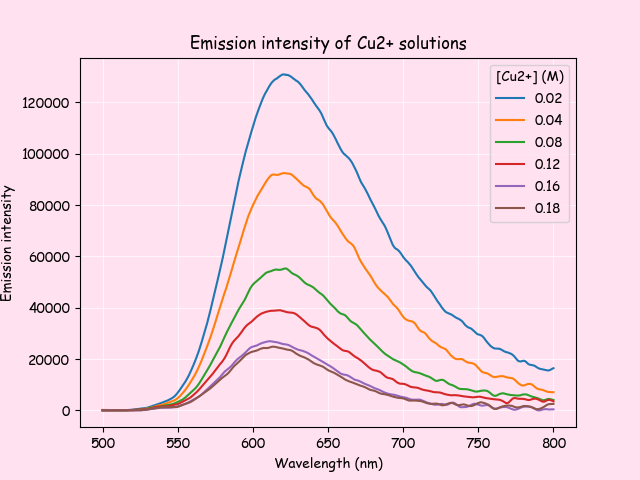
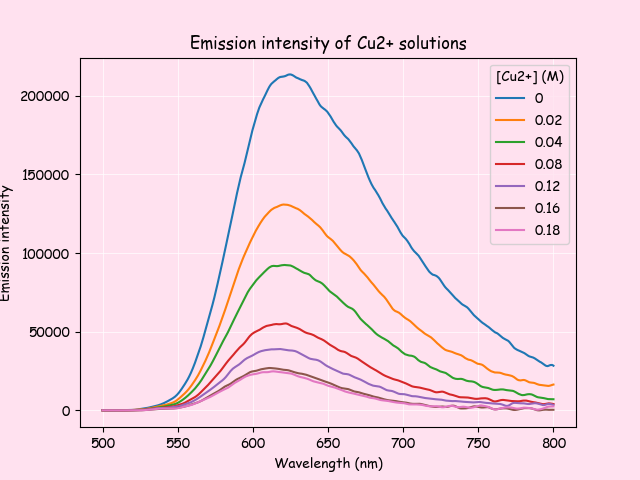
fuck

diff --git a/part1.py b/part1.py
@@ -15,8 +15,8 @@ def stern_volmer_y(x, noq):
 
     #find wl for max intensity
     wl_at_peak, peak = wl_4_peak(noq)
+    i0 = peak
     
-    #make array for i0/i for each sample so len(i0/i array) = len(x) ie num samples
     result = []
    
     for sample in x:
@@ -25,9 +25,9 @@ def stern_volmer_y(x, noq):
             if wavelength != wl_at_peak:
                 k += 1
                 continue
-            i0 = peak
             i = sample[k, 1]
             y = np.array([i0 / i])
+            print(i, i0, y)
             result = np.append(result, y, axis = 0)
             break
     return result, wl_at_peak
@@ -58,7 +58,8 @@ def kET(k22, x_red_potential, z):
     k11 = 10 ** 8 #(Rubpy kii)
 
     #get cell potential
-    cell_potential = x_red_potential + r_ox
+    cell_potential = x_red_potential + r_ox 
+    # cell_potential *= 1.602 * (10 ** (-19)) #convert units
     # use eqn 13 to get from cell potential - K12 (equilibrium constant for cross rxn)
     K12 = np.exp(cell_potential * ( (z * F) / (R * T)))
     #use K12 --> f12 (eqn 12)
@@ -78,6 +79,7 @@ prop = font_manager.FontProperties(fname=font_path)
 
 uv_vis = np.genfromtxt('uv_vis/part1.csv', delimiter=',')
 rubpy_emission = np.genfromtxt('fluorescence/emission_rubpy.csv', delimiter=',')
+rubpy_emission_norm = np.genfromtxt('fluorescence/emission_rubpy.csv', delimiter=',')
 rubpy_excitation = np.genfromtxt('fluorescence/excitation Rubpy.csv', delimiter=',')
 sample1 = np.genfromtxt('fluorescence/blank.csv', delimiter=',')
 sample2 = np.genfromtxt('fluorescence/sample2_emission_q.csv', delimiter=',')
@@ -95,6 +97,7 @@ sample13 = np.genfromtxt('fluorescence/sample13_emission_q.csv', delimiter=',')
 
 #fuck off data labels
 rubpy_emission = rubpy_emission[2:,:]
+rubpy_emission_norm = rubpy_emission_norm[2:,:]
 rubpy_excitation = rubpy_excitation[2:,:]
 uv_vis = uv_vis[2:,:]
 
@@ -150,7 +153,9 @@ sample1, sample2, sample3, sample4, sample5, sample6, sample7, sample8, sample9,
 
 #normalise
 rubpy_noq = normalise_col(rubpy_noq)
-rubpy_emission = normalise_col(rubpy_emission)
+print(rubpy_emission.shape)
+print(sample11.shape)
+rubpy_emission_norm = normalise_col(rubpy_emission_norm)
 rubpy_excitation = normalise_col(rubpy_excitation)
 
 
@@ -159,7 +164,7 @@ plt.rcParams["font.family"] = "Comic Sans MS"
 plt.rcParams['axes.facecolor'] = "#FFE1EF"
 plt.figure(facecolor="#FFE1EF")
 plt.plot(rubpy_noq[:, 0], rubpy_noq[:,1], label = "Absorption")
-plt.plot(rubpy_emission[:, 0], rubpy_emission[:,1], label = "Emission")
+plt.plot(rubpy_emission_norm[:, 0], rubpy_emission_norm[:,1], label = "Emission")
 plt.plot(rubpy_excitation[:, 0], rubpy_excitation[:,1], label = "Excitation")
 plt.xlabel("Wavelength (nm)")
 plt.ylabel("Emission intensity")
@@ -171,8 +176,8 @@ plt.savefig('part1_noq.png')
 #plotting quenched ones
 
 #fe
-fe_labels = [0.2, 0.4, 0.8, 1.2, 1.6, 1.8]
-fe = np.array([sample2, sample3, sample4, sample5, sample6, sample7])
+fe_labels = [0, 0.2, 0.4, 0.8, 1.2, 1.6, 1.8]
+fe = np.array([ rubpy_emission, sample2, sample3, sample4, sample5, sample6, sample7])
 plt.rcParams["font.family"] = "Comic Sans MS"
 plt.rcParams['axes.facecolor'] = "#FFE1EF"
 plt.figure(facecolor="#FFE1EF")
@@ -187,8 +192,8 @@ plt.grid(color = 'w', linestyle = '-', linewidth = 0.5)
 plt.legend(title = "[Fe3+] (M)")
 plt.savefig('part1_fe.png')
 
-cu_labels = [0.02, 0.04, 0.08, 0.12, 0.16, 0.18]
-cu = np.array([sample8, sample9, sample10, sample11, sample12, sample13])
+cu_labels = [0, 0.02, 0.04, 0.08, 0.12, 0.16, 0.18]
+cu = np.array([rubpy_emission, sample8, sample9, sample10, sample11, sample12, sample13])
 plt.rcParams["font.family"] = "Comic Sans MS"
 plt.rcParams['axes.facecolor'] = "#FFE1EF"
 plt.figure(facecolor="#FFE1EF")
@@ -220,7 +225,7 @@ yerrb = np.std(q1_feyaxis)
 plt.errorbar(q1_fexaxis, q1_feyaxis, xerr = xerrb , yerr = yerrb, color = "#fda0cc")
 m, b, *_ = stats.linregress(q1_fexaxis, q1_feyaxis)
 plt.axline(xy1=(0, b), slope=m, label=f'$y = {m:.8f}x {b:+.8f}$', color = "w", linestyle = "--")
-plt.xlabel("[Fe3+]]")
+plt.xlabel("[Fe3+] (M)")
 plt.legend()
 plt.ylabel("I0/I")
 # plt.xlim(0, q1_fexaxis[5])
@@ -231,7 +236,6 @@ fe_slope = m
 print(f"\nQ1\n\nFe3+:\nSlope = {fe_slope}\nwavelength = {fe_peak_wl} nm\n")
 
 #cu
-q1_cuyaxis = stern_volmer_y(cu, rubpy_emission)
 plt.rcParams["font.family"] = "Comic Sans MS"
 plt.rcParams['axes.facecolor'] = "#FFE1EF"
 plt.figure(facecolor="#FFE1EF")
@@ -243,7 +247,7 @@ yerrb = np.std(q1_cuyaxis)
 plt.errorbar(q1_cuxaxis, q1_cuyaxis, xerr = xerrb , yerr = yerrb, color = "#fda0cc")
 m, b, *_ = stats.linregress(q1_cuxaxis, q1_cuyaxis)
 plt.axline(xy1=(0, b), slope=m, label=f'$y = {m:.8f}x {b:+.8f}$', color = "w", linestyle = "--")
-plt.xlabel("[Cu2+]")
+plt.xlabel("[Cu2+] (M)")
 plt.legend()
 # plt.xlim(0, q1_cuxaxis[5])
 plt.ylabel("I0/I")
